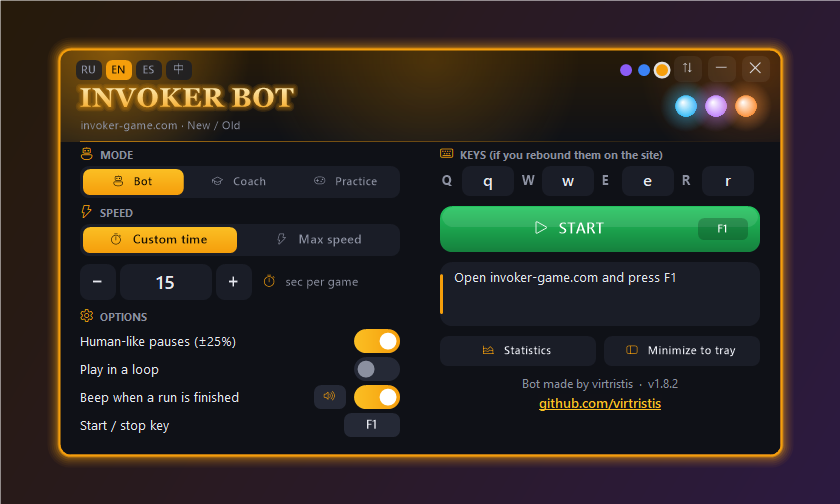
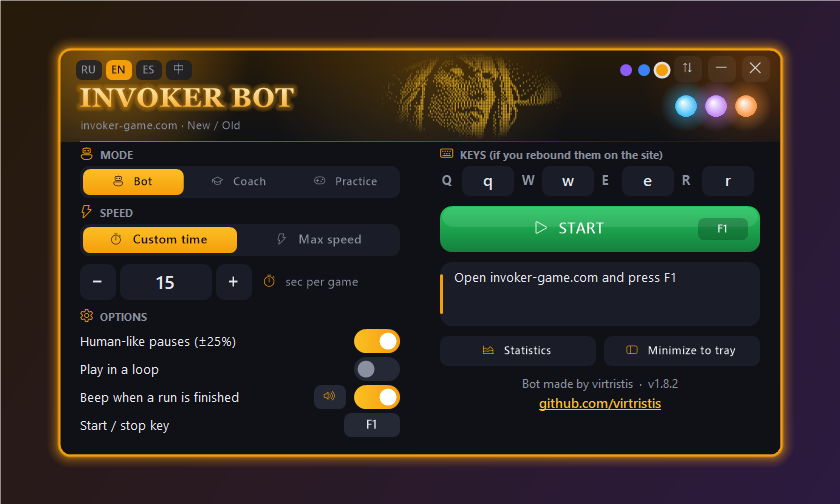
Horizontal layout: Invoker portrait in dots in the middle of the header

Changed region(s): [[0.4643, 0.119, 0.681, 0.2679]]

diff --git a/CHANGELOG.md b/CHANGELOG.md
@@ -5,6 +5,7 @@ All notable changes to this project are documented here.
 ## [Unreleased]
 
 ### Added
+- **Invoker in the header of the horizontal layout**: the portrait from the intro, drawn in dots in the colour of the theme, fills the empty middle of the header.
 - **The website in Español and 中文**, next to English and Русский.
 - **A GIF of a full practice run** in the README and on the website. It is made by the app itself: `--selftest drill-gif` plays a practice run on a virtual clock and saves the frames, `tools/make-gif.ps1` (with `tools/GifWriter.cs`) turns them into a small GIF.
 
